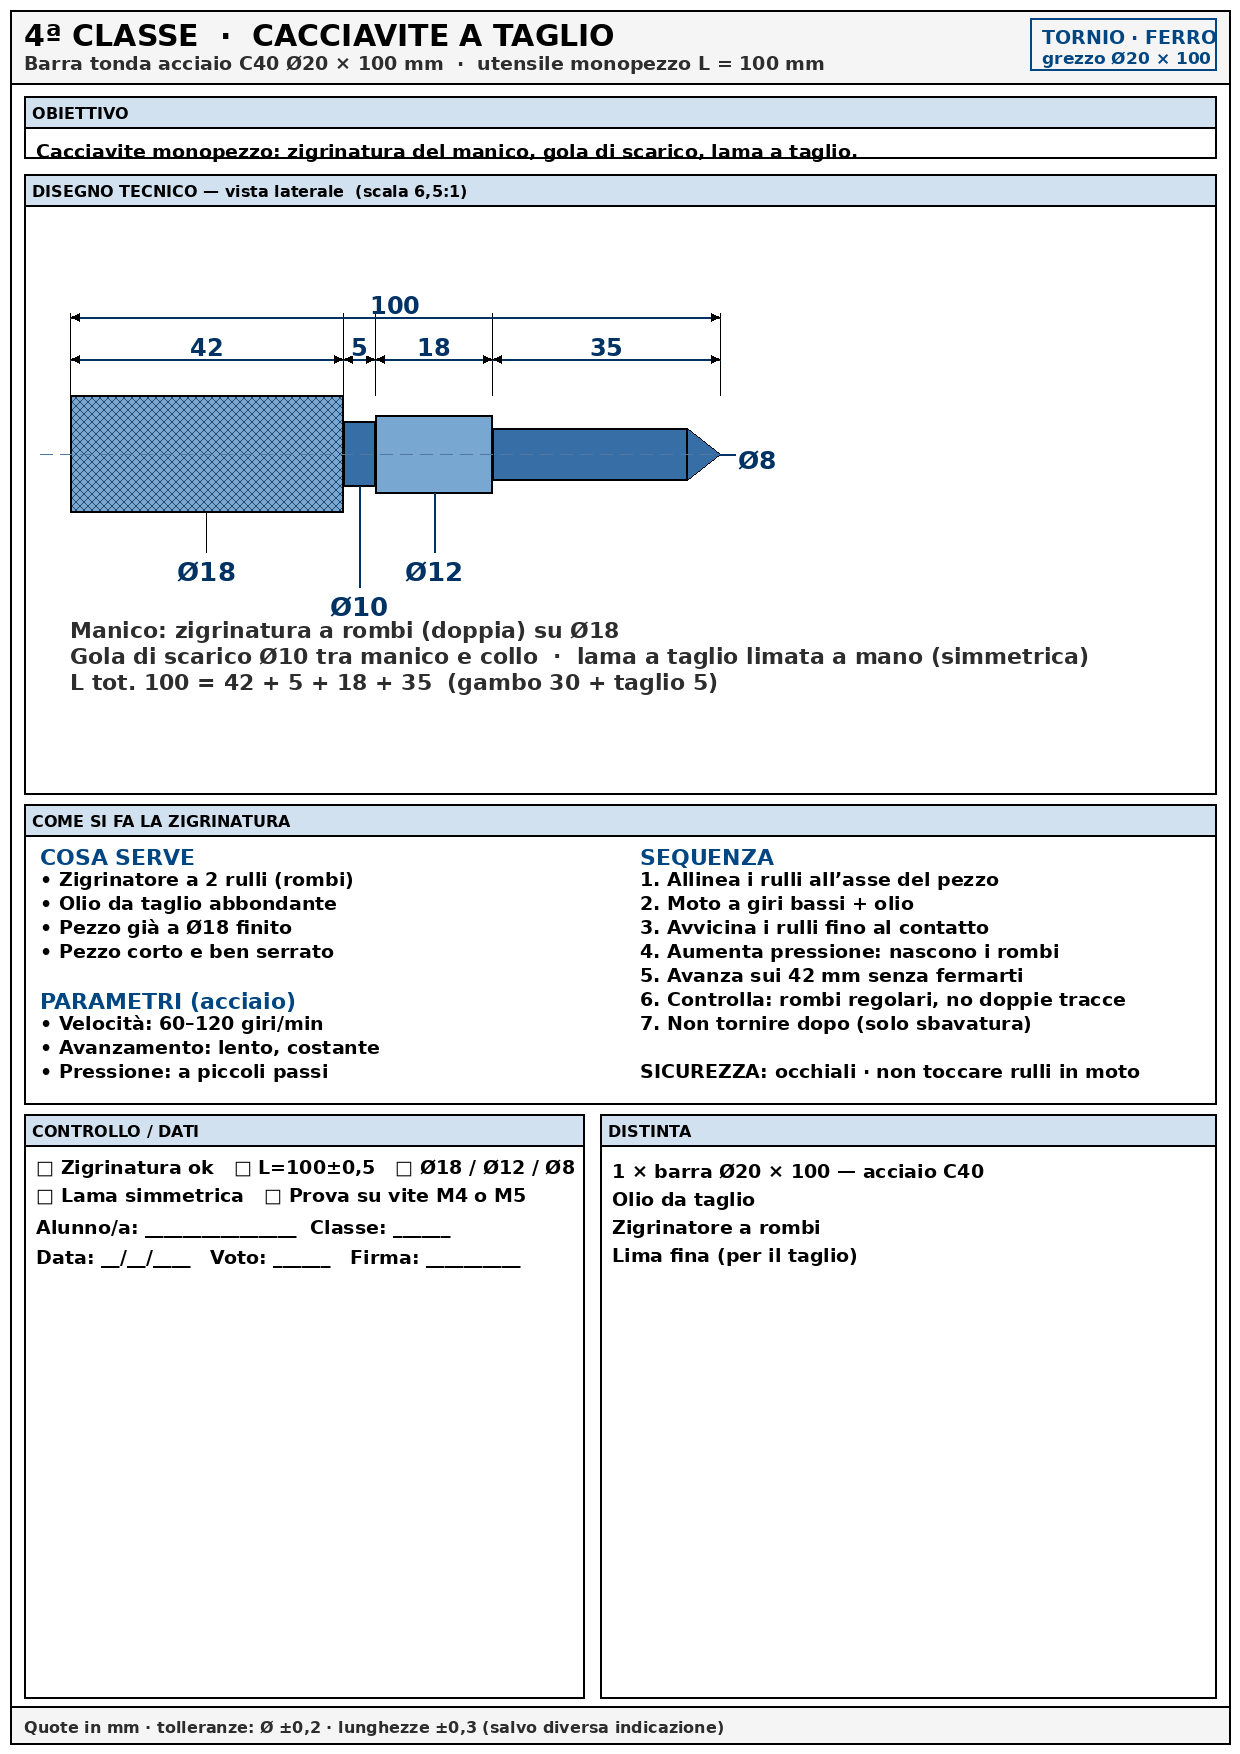
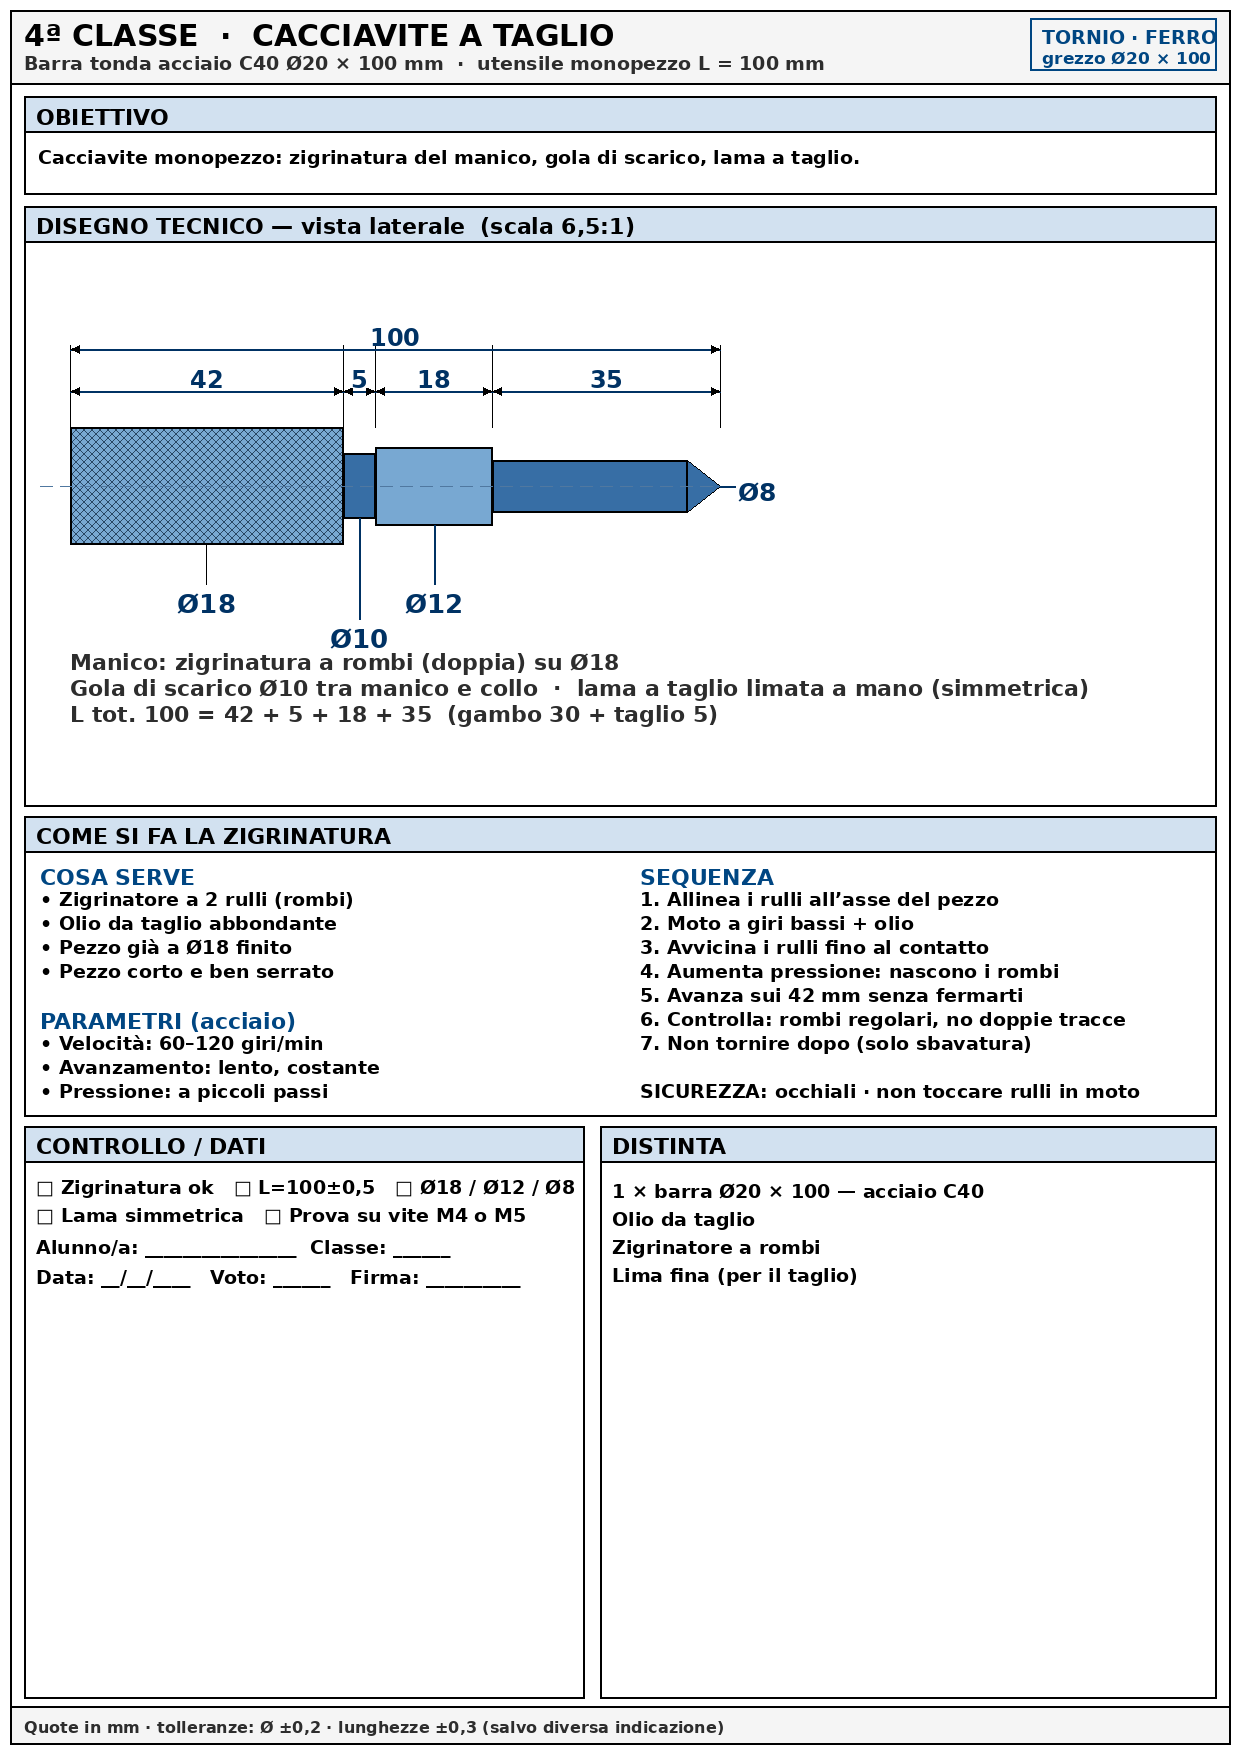
Fix diciture OBIETTIVO: padding sotto, niente sovrapposizione sul bordo.
Riquadri più alti su tutte le schede ferro/tornio/zigrinatura; testo
dell'obiettivo non tocca più la linea inferiore del contenitore.

Changed region(s): [[0.0, 0.0616, 0.9806, 0.7389], [0.5516, 0.1847, 0.5823, 0.2155]]

diff --git a/progetti-ferro-gallery/generate_ferro.py b/progetti-ferro-gallery/generate_ferro.py
@@ -81,12 +81,44 @@ def new_sheet(classe, titolo, sub):
 
 
 def panel(d, x, y, w, h, title):
-    hdr = 32
+    """Disegna pannello. Ritorna y del contenuto (sotto l’header)."""
+    hdr = 36
     d.rectangle([x, y, x + w, y + h], outline=BLACK, width=2)
     d.rectangle([x, y, x + w, y + hdr], fill=LIGHT, outline=BLACK, width=2)
-    # titolo sempre dentro l’intestazione del pannello
-    text_in_box(d, x, y, w, hdr, title, F14, BLACK, pad=8)
-    return y + hdr + 6
+    # titolo centrato verticalmente nell’header, aria sopra e sotto
+    f = F13
+    tw = d.textlength(title, font=f)
+    th = 22
+    d.text((x + 12, y + (hdr - th) / 2), title, fill=BLACK, font=f)
+    return y + hdr + 10
+
+
+def write_obiettivo(d, lines, y0=96):
+    """Riquadro OBIETTIVO: testo intero, padding sotto/sopra, mai sulla linea."""
+    x, w = 24, W - 48
+    hdr = 36
+    pad_top, pad_bot = 14, 18
+    line_h = 30
+    h = hdr + pad_top + len(lines) * line_h + pad_bot
+    # disegna box (stesso stile di panel, senza riuso per altezza header coerente)
+    d.rectangle([x, y0, x + w, y0 + h], outline=BLACK, width=2)
+    d.rectangle([x, y0, x + w, y0 + hdr], fill=LIGHT, outline=BLACK, width=2)
+    d.text((x + 12, y0 + 8), "OBIETTIVO", fill=BLACK, font=F13)
+    cy = y0 + hdr + pad_top
+    max_w = w - 28
+    for i, item in enumerate(lines):
+        if isinstance(item, tuple):
+            text, fill = item
+        else:
+            text, fill = item, BLACK
+        # riduci font se troppo largo — una sola riga, mai wrap che esce
+        f = F12
+        for sz in range(19, 13, -1):
+            f = font_b(sz)
+            if d.textlength(text, font=f) <= max_w:
+                break
+        d.text((x + 14, cy + i * line_h), text, fill=fill, font=f)
+    return y0 + h + 12
 
 
 def arrow_h(d, x, y, left=True):
@@ -200,34 +232,43 @@ def text_fit(d, text, font, max_w):
 
 
 def text_in_box(d, x, y, w, h, text, font, fill, pad=8):
-    """Scrive testo DENTRO il box: riduce il font se serve, mai fuori dai bordi."""
+    """Scrive testo DENTRO il box: preferisce font più piccolo al wrap; mai fuori."""
     max_w = max(20, w - 2 * pad)
     max_h = max(12, h - 2 * pad)
     start = font.size if hasattr(font, "size") else 19
+    # Una sola riga se l’altezza non regge due righe
     for sz in range(min(start, int(max_h)), 10, -1):
         f = font_b(sz)
         if d.textlength(text, font=f) <= max_w:
-            # ancora 2px di aria sotto la baseline
             ty = y + pad + max(0, (max_h - sz) / 2)
-            if ty + sz + 2 > y + h - 2:
-                ty = y + h - sz - 4
+            # lascia almeno 4px sopra il bordo inferiore (descender)
+            if ty + sz + 4 > y + h - 2:
+                ty = y + h - sz - 6
             if ty < y + 2:
                 ty = y + 2
             d.text((x + pad, ty), text, fill=fill, font=f)
             return
-    # due righe
-    f = font_b(max(11, min(13, int(max_h / 2) - 1)))
-    words = text.split()
-    line1, line2 = "", ""
-    for w0 in words:
-        trial = (line1 + " " + w0).strip()
-        if d.textlength(trial, font=f) <= max_w:
-            line1 = trial
-        else:
-            line2 = (line2 + " " + w0).strip()
-    d.text((x + pad, y + pad), line1, fill=fill, font=f)
-    if line2 and y + pad + f.size + 4 < y + h - 2:
-        d.text((x + pad, y + pad + f.size + 2), line2, fill=fill, font=f)
+    # wrap solo se c’è spazio verticale per 2 righe
+    if max_h >= 28:
+        f = font_b(max(11, min(13, int(max_h / 2) - 2)))
+        words = text.split()
+        line1, line2 = "", ""
+        for w0 in words:
+            trial = (line1 + " " + w0).strip()
+            if d.textlength(trial, font=f) <= max_w:
+                line1 = trial
+            else:
+                line2 = (line2 + " " + w0).strip()
+        d.text((x + pad, y + pad), line1, fill=fill, font=f)
+        if line2 and y + pad + f.size + 6 < y + h - 4:
+            d.text((x + pad, y + pad + f.size + 2), line2, fill=fill, font=f)
+        return
+    # ultima spiaggia: testo tagliato in larghezza con font piccolo
+    f = font_b(11)
+    t = text
+    while len(t) > 1 and d.textlength(t, font=f) > max_w:
+        t = t[:-1]
+    d.text((x + pad, y + pad), t, fill=fill, font=f)
 
 
 def draw_hook_detail(d, bx1, by1, bx2, by2):
@@ -313,16 +354,13 @@ def make_2a():
     # Margini interni del foglio
     LEFT, RIGHT = 36, W - 36
 
-    y = panel(d, 24, 96, W - 48, 64, "OBIETTIVO")
-    text_in_box(
-        d, LEFT - 4, y, RIGHT - LEFT + 8, 28,
-        "Tornitura + limatura del gancio. Grezzo → L=80 (avanzo ≈20 mm).",
-        F12, BLACK, pad=4,
+    draw_top = write_obiettivo(
+        d,
+        ["Tornitura + limatura del gancio. Grezzo → L=80 (avanzo ≈20 mm)."],
     )
 
     # ——— PANNELLO DISEGNO: profilo CHIARO + legenda numerata ———
-    draw_top = 176
-    draw_h = 560
+    draw_h = 540
     panel(d, 24, draw_top, W - 48, draw_h, "COME È FATTO — vista laterale (scala 9:1)")
     panel_bottom = draw_top + draw_h
 
@@ -539,12 +577,14 @@ def make_3a():
         "Barra tonda acciaio Ø20 × 100 mm  ·  pezzo finito L = 36 mm  ·  filetto M8 × 1,25",
     )
 
-    y = panel(d, 24, 96, W - 48, 86, "OBIETTIVO")
-    d.text((36, y + 4), "Pomolo zigrinato per cassetto/anta. Prima zigrinatura + foro cieco filettato M8.", fill=BLACK, font=F12)
-    d.text((36, y + 30), "Dal grezzo si ricava L=36; l’avanzo serve per prove di zigrinatura.", fill=GRAY, font=F12)
-
-    draw_top = 198
-    draw_h = 700
+    draw_top = write_obiettivo(
+        d,
+        [
+            "Pomolo zigrinato per cassetto/anta. Prima zigrinatura + foro cieco filettato M8.",
+            ("Dal grezzo si ricava L=36; l’avanzo serve per prove di zigrinatura.", GRAY),
+        ],
+    )
+    draw_h = 680
     y = panel(d, 24, draw_top, W - 48, draw_h, "DISEGNO TECNICO — vista laterale  (scala 12:1)")
 
     sc = 12.0
@@ -686,11 +726,11 @@ def make_4a():
         "Barra tonda acciaio C40 Ø20 × 100 mm  ·  utensile monopezzo L = 100 mm",
     )
 
-    y = panel(d, 24, 96, W - 48, 62, "OBIETTIVO")
-    d.text((36, y + 6), "Cacciavite monopezzo: zigrinatura del manico, gola di scarico, lama a taglio.", fill=BLACK, font=F12)
-
-    draw_top = 174
-    draw_h = 620
+    draw_top = write_obiettivo(
+        d,
+        ["Cacciavite monopezzo: zigrinatura del manico, gola di scarico, lama a taglio."],
+    )
+    draw_h = 600
     y = panel(d, 24, draw_top, W - 48, draw_h, "DISEGNO TECNICO — vista laterale  (scala 6,5:1)")
 
     sc = 6.5
@@ -837,11 +877,11 @@ def make_5a():
         "Barra tonda acciaio C40 Ø20 × 100 mm  ·  pezzo finito L = 100 mm  ·  filetto M10 × 1,5",
     )
 
-    y = panel(d, 24, 96, W - 48, 62, "OBIETTIVO")
-    d.text((36, y + 6), "Vite a pomolo per fissare pezzi su dima/guida. Zigrinatura + filettatura esterna M10×1,5.", fill=BLACK, font=F12)
-
-    draw_top = 174
-    draw_h = 740
+    draw_top = write_obiettivo(
+        d,
+        ["Vite a pomolo per fissare pezzi su dima/guida. Zigrinatura + filettatura esterna M10×1,5."],
+    )
+    draw_h = 720
     y = panel(d, 24, draw_top, W - 48, draw_h, "DISEGNO TECNICO — vista laterale  (scala 7:1)")
 
     sc = 7.0

diff --git a/progetti-ferro-gallery/generate_zigrinatura.py b/progetti-ferro-gallery/generate_zigrinatura.py
@@ -55,10 +55,11 @@ Fm, Fs = font_b(16), font(15)
 
 
 def panel(d, x, y, w, h, title, fill=LIGHT):
+    hdr = 34
     d.rectangle([x, y, x + w, y + h], outline=BLACK, width=2)
-    d.rectangle([x, y, x + w, y + 28], fill=fill, outline=BLACK, width=2)
-    d.text((x + 10, y + 5), title, fill=BLACK, font=F14)
-    return y + 34
+    d.rectangle([x, y, x + w, y + hdr], fill=fill, outline=BLACK, width=2)
+    d.text((x + 12, y + 7), title, fill=BLACK, font=F13)
+    return y + hdr + 10
 
 
 def _clip(x0, y0, x1, y1, left, top, right, bottom):
@@ -112,14 +113,16 @@ def make():
     d.rectangle([10, FOOT, W - 10, H - 10], fill=(245, 245, 245), outline=BLACK, width=2)
     d.text((24, FOOT + 12), "Tieni questa scheda vicino al tornio  ·  zigrinatura = impronta a freddo, non asportazione", fill=GRAY, font=Fm)
 
-    # COS'È
-    y = panel(d, 24, 100, W - 48, 100, "COS’È")
+    # COS'È — padding generoso sopra il bordo inferiore
+    cose_y, cose_h = 100, 140
+    y = panel(d, 24, cose_y, W - 48, cose_h, "COS’È")
     d.text((36, y + 2), "La zigrinatura crea una superficie a rombi (o a linee) premendo due rulli sul pezzo che gira.", fill=BLACK, font=F12)
     d.text((36, y + 28), "Non toglie truciolo: deforma il metallo. Per questo dopo NON si torna a tornire sul tratto zigrinato.", fill=BLACK, font=F12)
     d.text((36, y + 54), "Serve per manici, pomoli, viti a mano: presa antiscivolo.", fill=GRAY, font=F12)
 
     # DISEGNO ATTREZZO + PEZZO
-    y = panel(d, 24, 216, W - 48, 420, "SCHEMA — zigrinatore a 2 rulli sul pezzo")
+    schema_y = cose_y + cose_h + 12
+    y = panel(d, 24, schema_y, W - 48, 420, "SCHEMA — zigrinatore a 2 rulli sul pezzo")
 
     # Pezzo orizzontale
     mid = 400
@@ -168,8 +171,9 @@ def make():
     d.text((972, 318), "• NON tornire", fill=BLACK, font=F12)
     d.text((972, 344), "• Controlla rombi", fill=BLACK, font=F12)
 
-    # PARAMETRI
-    y = panel(d, 24, 652, 580, 200, "PARAMETRI (acciaio)")
+    # PARAMETRI (sotto lo schema, con margine)
+    par_y = schema_y + 420 + 14
+    y = panel(d, 24, par_y, 580, 200, "PARAMETRI (acciaio)")
     for i, ln in enumerate(
         [
             "• Velocità: 60 – 120 giri/min  (bassi!)",
@@ -180,9 +184,9 @@ def make():
             "• Pezzo: già tornito al Ø finale della zona",
         ]
     ):
-        d.text((36, y + 4 + i * 26), ln, fill=BLACK, font=F12)
+        d.text((36, y + 6 + i * 26), ln, fill=BLACK, font=F12)
 
-    y2 = panel(d, 620, 652, W - 24 - 620, 200, "ERRORI TIPICI", fill=WARN_BG)
+    y2 = panel(d, 620, par_y, W - 24 - 620, 200, "ERRORI TIPICI", fill=WARN_BG)
     for i, ln in enumerate(
         [
             "✗ Giri troppo alti → denti saltati",
@@ -193,10 +197,11 @@ def make():
             "✗ Pezzo lungo e non sostenuto",
         ]
     ):
-        d.text((632, y2 + 4 + i * 26), ln, fill=WARN, font=F12)
+        d.text((632, y2 + 6 + i * 26), ln, fill=WARN, font=F12)
 
     # SEQUENZA
-    y = panel(d, 24, 868, W - 48, 420, "SEQUENZA PASSO-PASSO")
+    seq_y = par_y + 200 + 14
+    y = panel(d, 24, seq_y, W - 48, 400, "SEQUENZA PASSO-PASSO")
     steps = [
         ("1", "Prepara il pezzo", "Porta a misura il Ø della zona da zigrinare. Smussa i bordi. Serraggio saldo."),
         ("2", "Monta lo zigrinatore", "Sulla torretta, rulli paralleli all’asse del pezzo. Controlla l’allineamento."),
@@ -207,7 +212,7 @@ def make():
         ("7", "Finitura", "Solo lima fina / carta per sbavare i bordi. Non tornire sulla zigrinatura."),
     ]
     for i, (n, t, desc) in enumerate(steps):
-        yy = y + 4 + i * 52
+        yy = y + 4 + i * 50
         d.ellipse([40, yy, 68, yy + 28], fill=ACCENT, outline=BLACK)
         tw = d.textlength(n, font=F13)
         d.text((54 - tw / 2, yy + 5), n, fill=WHITE, font=F13)
@@ -215,9 +220,10 @@ def make():
         d.text((80, yy + 26), desc, fill=GRAY, font=F12)
 
     # Footer student
-    y = panel(d, 24, 1304, W - 48, FOOT - 1304 - 8, "DATI ALUNNO")
+    dati_y = seq_y + 400 + 12
+    y = panel(d, 24, dati_y, W - 48, FOOT - dati_y - 8, "DATI ALUNNO")
     d.text((36, y + 8), "Alunno/a: _____________________  Classe: ______  Data: __/__/____", fill=BLACK, font=F13)
-    d.text((36, y + 44), "Ho eseguito una zigrinatura regolare:  SÌ □    NO □     Firma docente: _______________", fill=BLACK, font=F13)
+    d.text((36, y + 40), "Ho eseguito una zigrinatura regolare:  SÌ □    NO □     Firma docente: _______________", fill=BLACK, font=F13)
 
     name = "08-zigrinatura.png"
     img.save(os.path.join(OUT, name), "PNG", optimize=True)

diff --git a/progetti-ferro-gallery/generate_tornio.py b/progetti-ferro-gallery/generate_tornio.py
@@ -76,10 +76,11 @@ def new_sheet(titolo, sub):
 
 
 def panel(d, x, y, w, h, title, fill=LIGHT):
+    hdr = 34
     d.rectangle([x, y, x + w, y + h], outline=BLACK, width=2)
-    d.rectangle([x, y, x + w, y + 28], fill=fill, outline=BLACK, width=2)
-    d.text((x + 10, y + 5), title, fill=BLACK, font=F14)
-    return y + 34
+    d.rectangle([x, y, x + w, y + hdr], fill=fill, outline=BLACK, width=2)
+    d.text((x + 12, y + 7), title, fill=BLACK, font=F13)
+    return y + hdr + 10
 
 
 def callout(d, n, tx, ty, lx, ly):
@@ -305,12 +306,13 @@ def make_leve_full():
         "A cosa serve ogni leva / volantino (imparale prima di accendere)",
     )
 
-    y = panel(d, 24, 100, W - 48, 72, "REGOLA D’ORO", fill=WARN_BG)
+    regola_y, regola_h = 100, 110
+    y = panel(d, 24, regola_y, W - 48, regola_h, "REGOLA D’ORO", fill=WARN_BG)
     d.text((36, y + 4), "Macchina FERMA per: cambiare velocità · invertire senso · spostare contropunta.", fill=WARN, font=F13)
     d.text((36, y + 32), "Occhiali sempre. Capelli/maniche raccolti. Non toccare pezzo o mandrino in moto.", fill=WARN, font=F13)
 
     # Mini lathe strip
-    y = panel(d, 24, 188, W - 48, 260, "POSIZIONE DEI COMANDI (schema semplificato)")
+    y = panel(d, 24, regola_y + regola_h + 12, W - 48, 260, "POSIZIONE DEI COMANDI (schema semplificato)")
     my = 320
     # bed
     d.rectangle([60, my + 80, 1160, my + 120], fill=BED, outline=BLACK, width=2)
@@ -371,7 +373,8 @@ def make_leve_full():
         ("N", "Bloccaggio utensile", "Serraggio sulla torretta. Utensile a centro pezzo."),
     ]
 
-    y = panel(d, 24, 464, 580, FOOT - 464 - 8, "COMANDI A – G")
+    com_y = regola_y + regola_h + 12 + 260 + 14
+    y = panel(d, 24, com_y, 580, FOOT - com_y - 8, "COMANDI A – G")
     yy = y + 2
     for n, title, desc in left:
         d.rectangle([36, yy, 62, yy + 24], fill=ACCENT, outline=BLACK)
@@ -393,7 +396,7 @@ def make_leve_full():
             ly += 16
         yy = ly + 8
 
-    y = panel(d, 620, 464, W - 24 - 620, FOOT - 464 - 8, "COMANDI H – N")
+    y = panel(d, 620, com_y, W - 24 - 620, FOOT - com_y - 8, "COMANDI H – N")
     yy = y + 2
     for n, title, desc in right:
         d.rectangle([632, yy, 658, yy + 24], fill=ACCENT, outline=BLACK)
